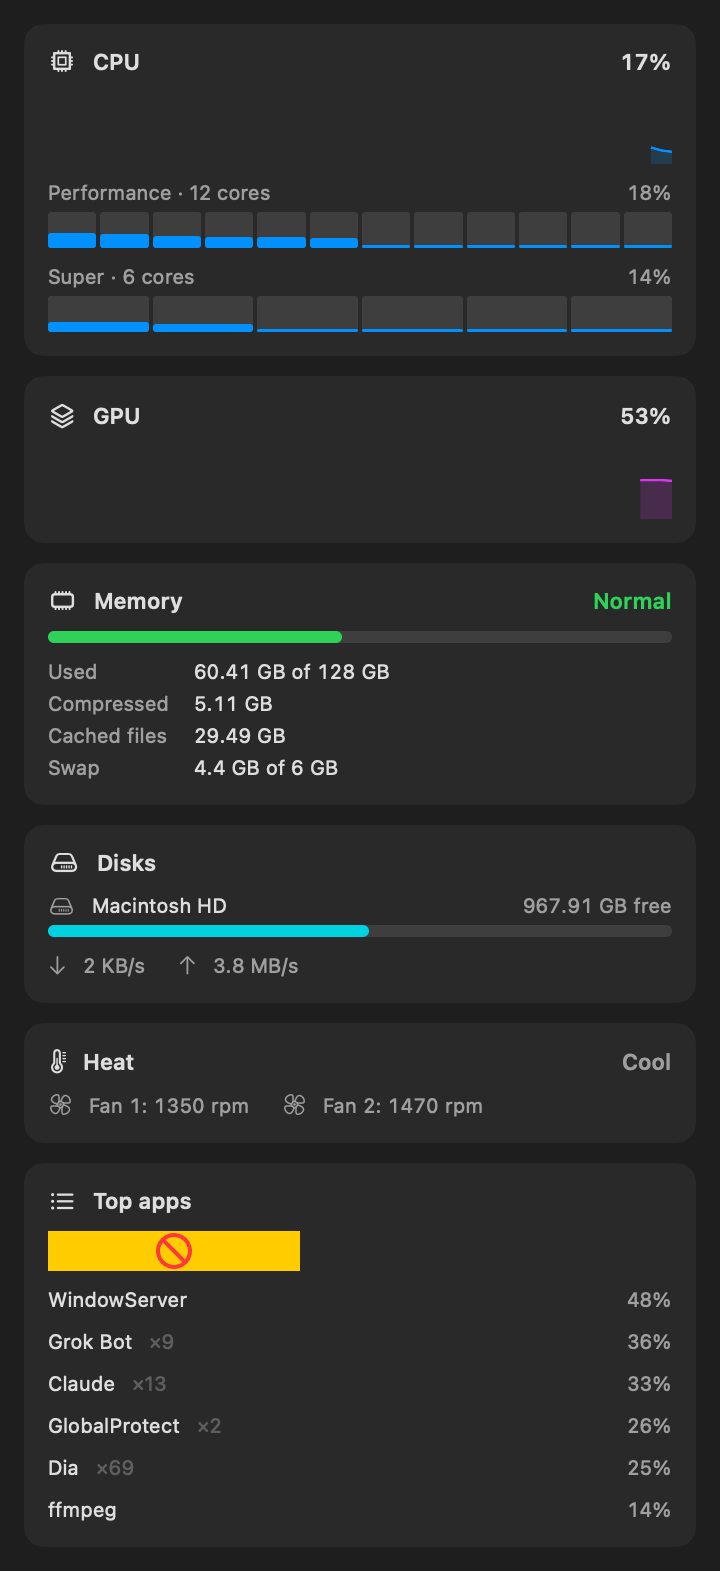
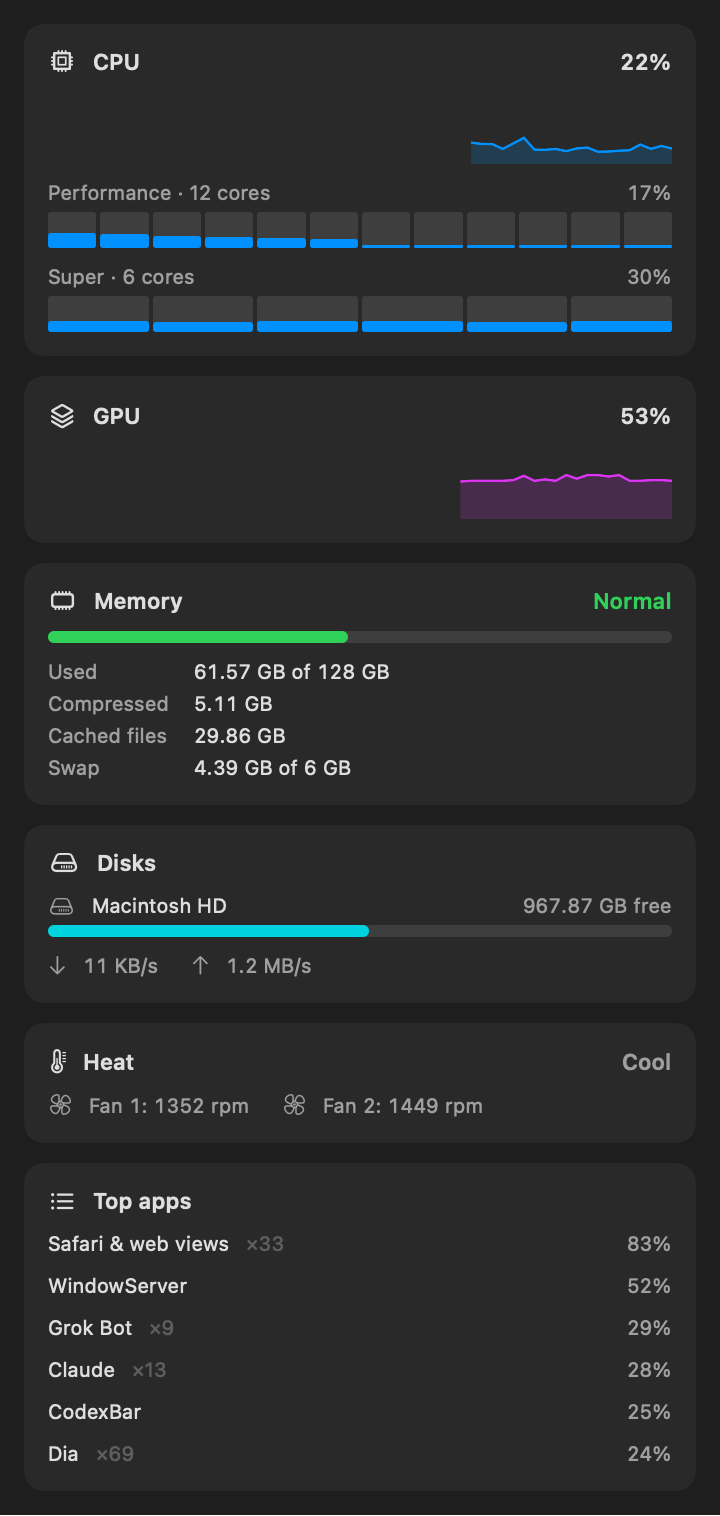
docs: clean popover snapshot

diff --git a/StatBar/StatBarView.swift b/StatBar/StatBarView.swift
@@ -24,6 +24,8 @@ struct StatBarView: View {
     @Bindable var monitor: StatMonitor
     @Bindable var launchAtLogin: LaunchAtLoginController
     @State private var processSort: ProcessSort = .cpu
+    /// Set by `--snapshot`, which can't draw AppKit controls such as the segmented picker.
+    var isSnapshot = false
 
     enum ProcessSort: String, CaseIterable, Identifiable {
         case cpu = "CPU"
@@ -147,12 +149,14 @@ struct StatBarView: View {
 
     private var processesCard: some View {
         Card(title: "Top apps", value: nil, symbol: "list.bullet") {
+            if !isSnapshot {
             Picker("Sort", selection: $processSort) {
                 ForEach(ProcessSort.allCases) { Text($0.rawValue).tag($0) }
             }
             .pickerStyle(.segmented)
             .labelsHidden()
             .controlSize(.small)
+            }
             ForEach(topProcesses) { process in
                 HStack {
                     Text(process.name).lineLimit(1)

diff --git a/StatBar/StatBarApp.swift b/StatBar/StatBarApp.swift
@@ -149,9 +149,9 @@ final class AppDelegate: NSObject, NSApplicationDelegate, NSPopoverDelegate {
     private func snapshotAndExit(to path: String) async {
         monitor.start()
         monitor.setPopoverVisible(true)
-        try? await Task.sleep(for: .seconds(6.5))
+        try? await Task.sleep(for: .seconds(40))
         // ImageRenderer can't draw scroll views or AppKit controls, so render the cards alone.
-        let view = StatBarView(monitor: monitor, launchAtLogin: launchAtLogin).cards
+        let view = StatBarView(monitor: monitor, launchAtLogin: launchAtLogin, isSnapshot: true).cards
             .frame(width: 360)
             .background(Color(nsColor: .windowBackgroundColor))
             .environment(\.colorScheme, .dark)
